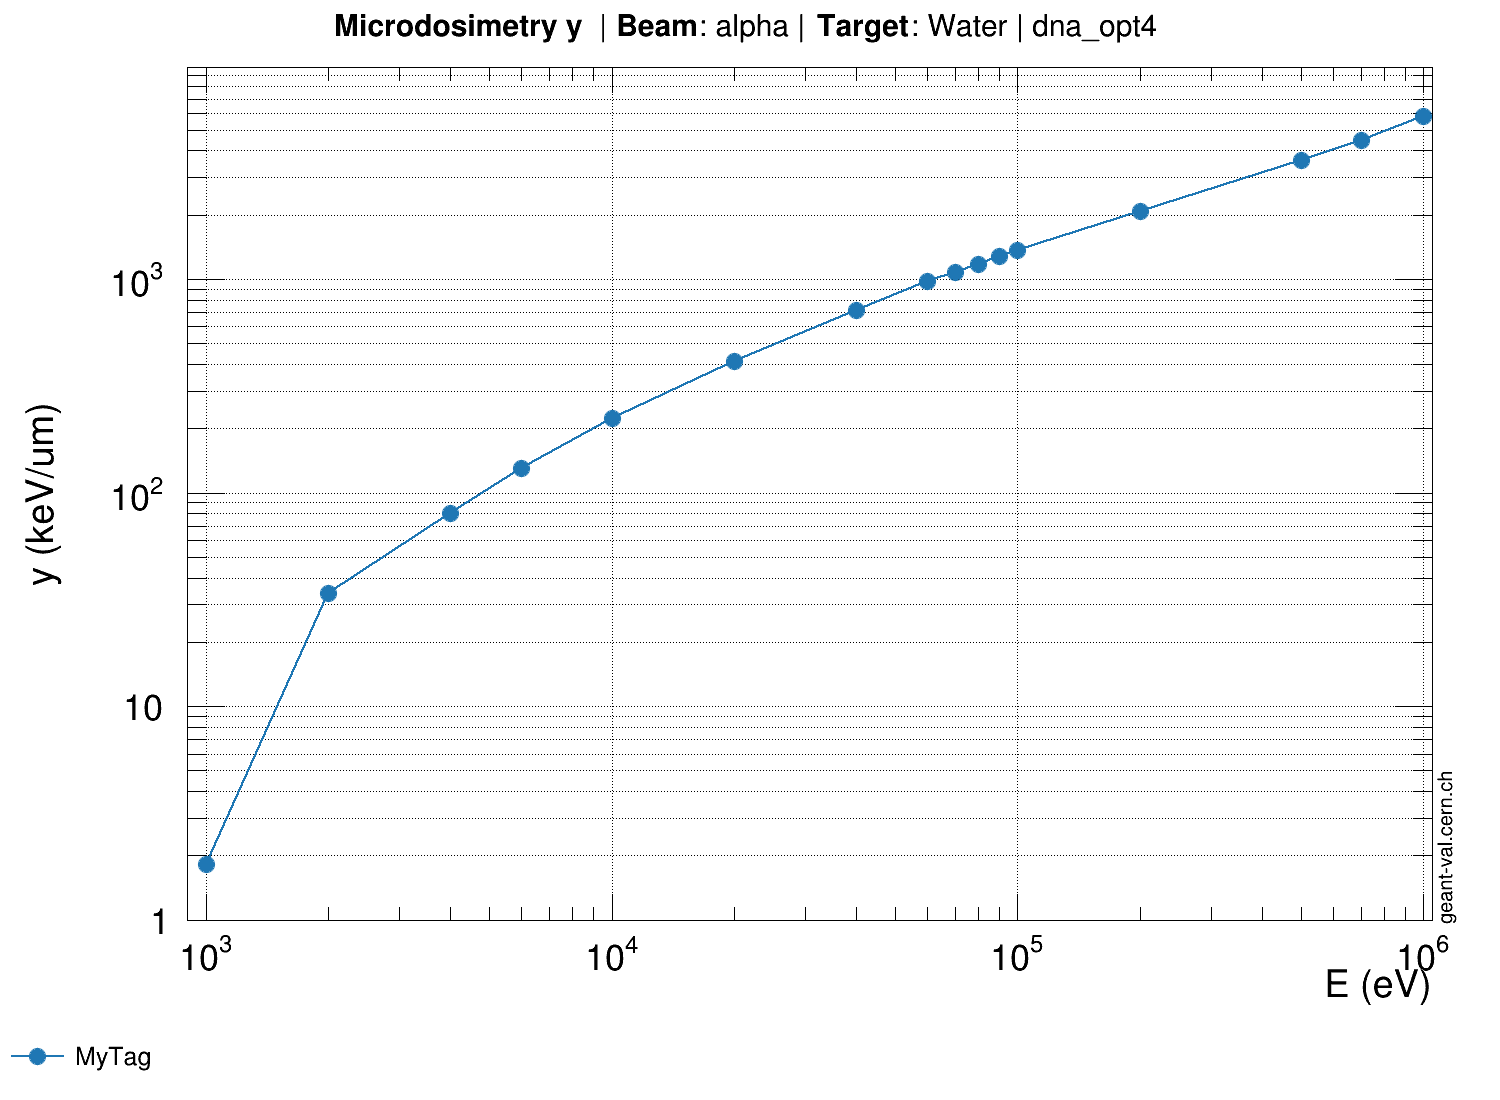
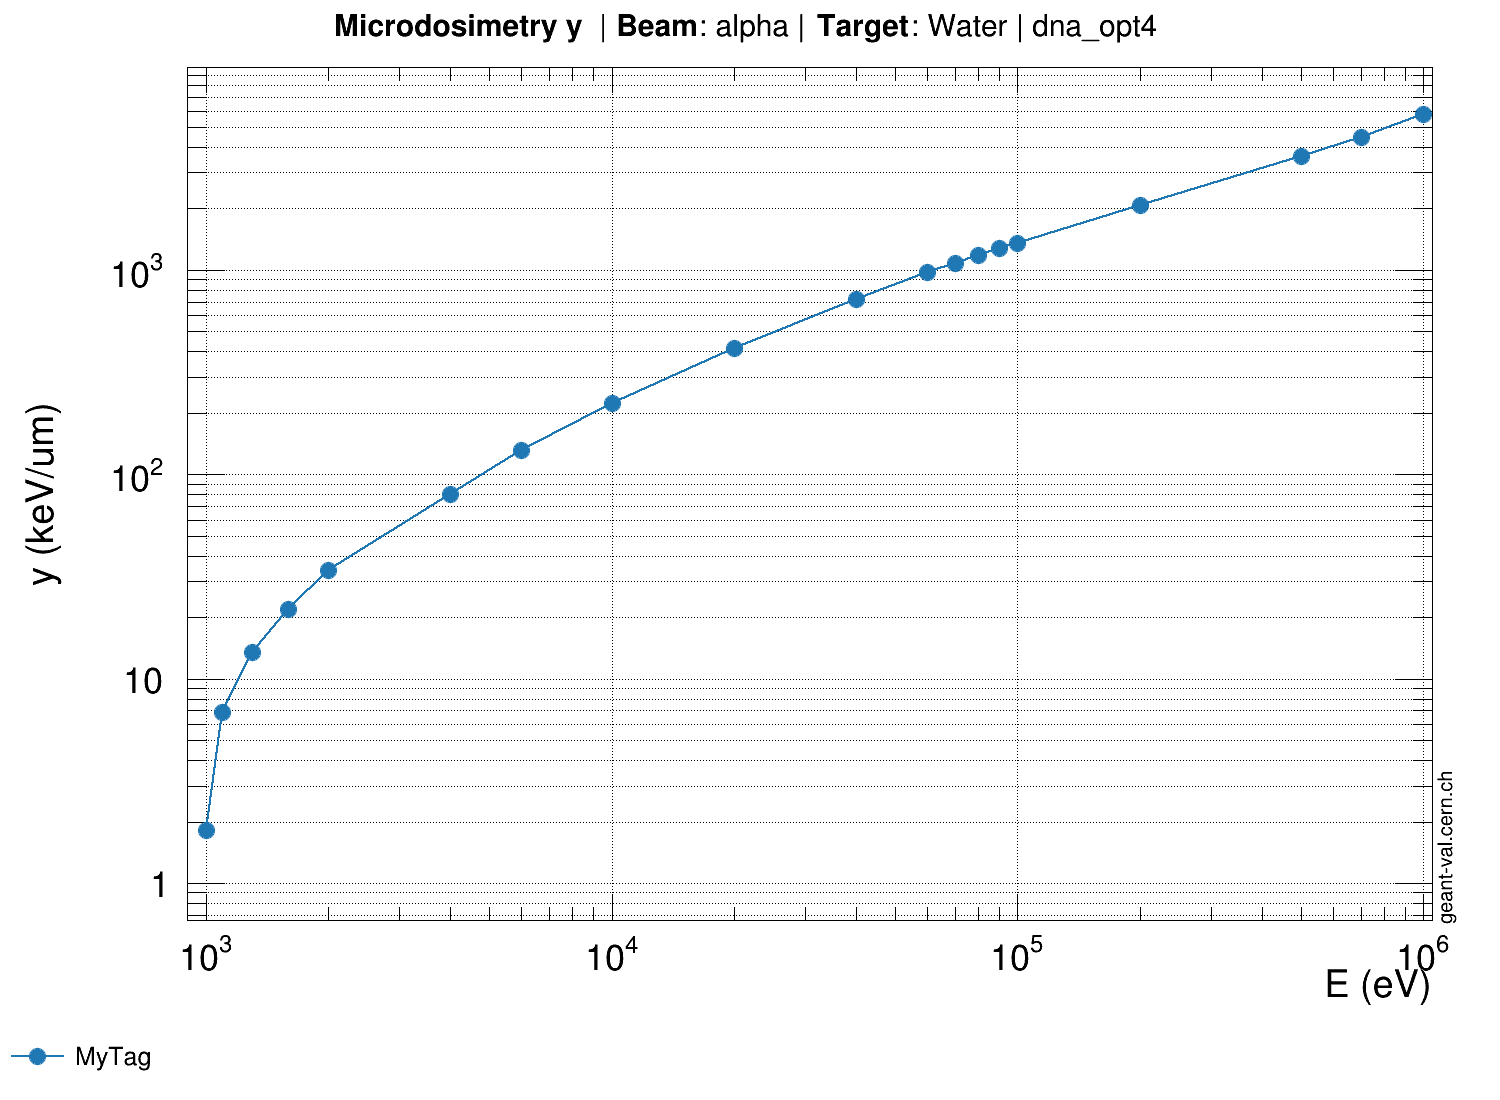
range : lun. mars 20 18:00:54 CET 2023

diff --git a/assets/OUTPUTJSON/geant4/MyTag/x86_64/range/alpha.conf.c b/assets/OUTPUTJSON/geant4/MyTag/x86_64/range/alpha.conf.c
@@ -78,3 +78,95 @@ double gvp_id-1_yerrors[16] = {
   0,
   0
 };
+// Tool:               GEANT4
+// Version:            MyTag
+// Model:              dna_opt4
+// Observable:         microdosimetry y
+// Target:             Water
+// Beam Particle:      alpha
+// Secondary Particle: None
+
+double gvp_id-1_x[19] = {
+  1000,
+  1100,
+  1300,
+  1600,
+  2000,
+  4000,
+  6000,
+  10000,
+  20000,
+  40000,
+  60000,
+  70000,
+  80000,
+  90000,
+  100000,
+  200000,
+  500000,
+  700000,
+  1e+06
+};
+double gvp_id-1_y[19] = {
+  1.82096,
+  6.87343,
+  13.4566,
+  22.0325,
+  33.8783,
+  80.3267,
+  130.752,
+  223.992,
+  413.212,
+  719.219,
+  979.862,
+  1084.02,
+  1179.17,
+  1281.51,
+  1360.64,
+  2084.92,
+  3618.62,
+  4488.07,
+  5799.17
+};
+double gvp_id-1_xerrors[19] = {
+  0,
+  0,
+  0,
+  0,
+  0,
+  0,
+  0,
+  0,
+  0,
+  0,
+  0,
+  0,
+  0,
+  0,
+  0,
+  0,
+  0,
+  0,
+  0
+};
+double gvp_id-1_yerrors[19] = {
+  0,
+  0,
+  0,
+  0,
+  0,
+  0,
+  0,
+  0,
+  0,
+  0,
+  0,
+  0,
+  0,
+  0,
+  0,
+  0,
+  0,
+  0,
+  0
+};
